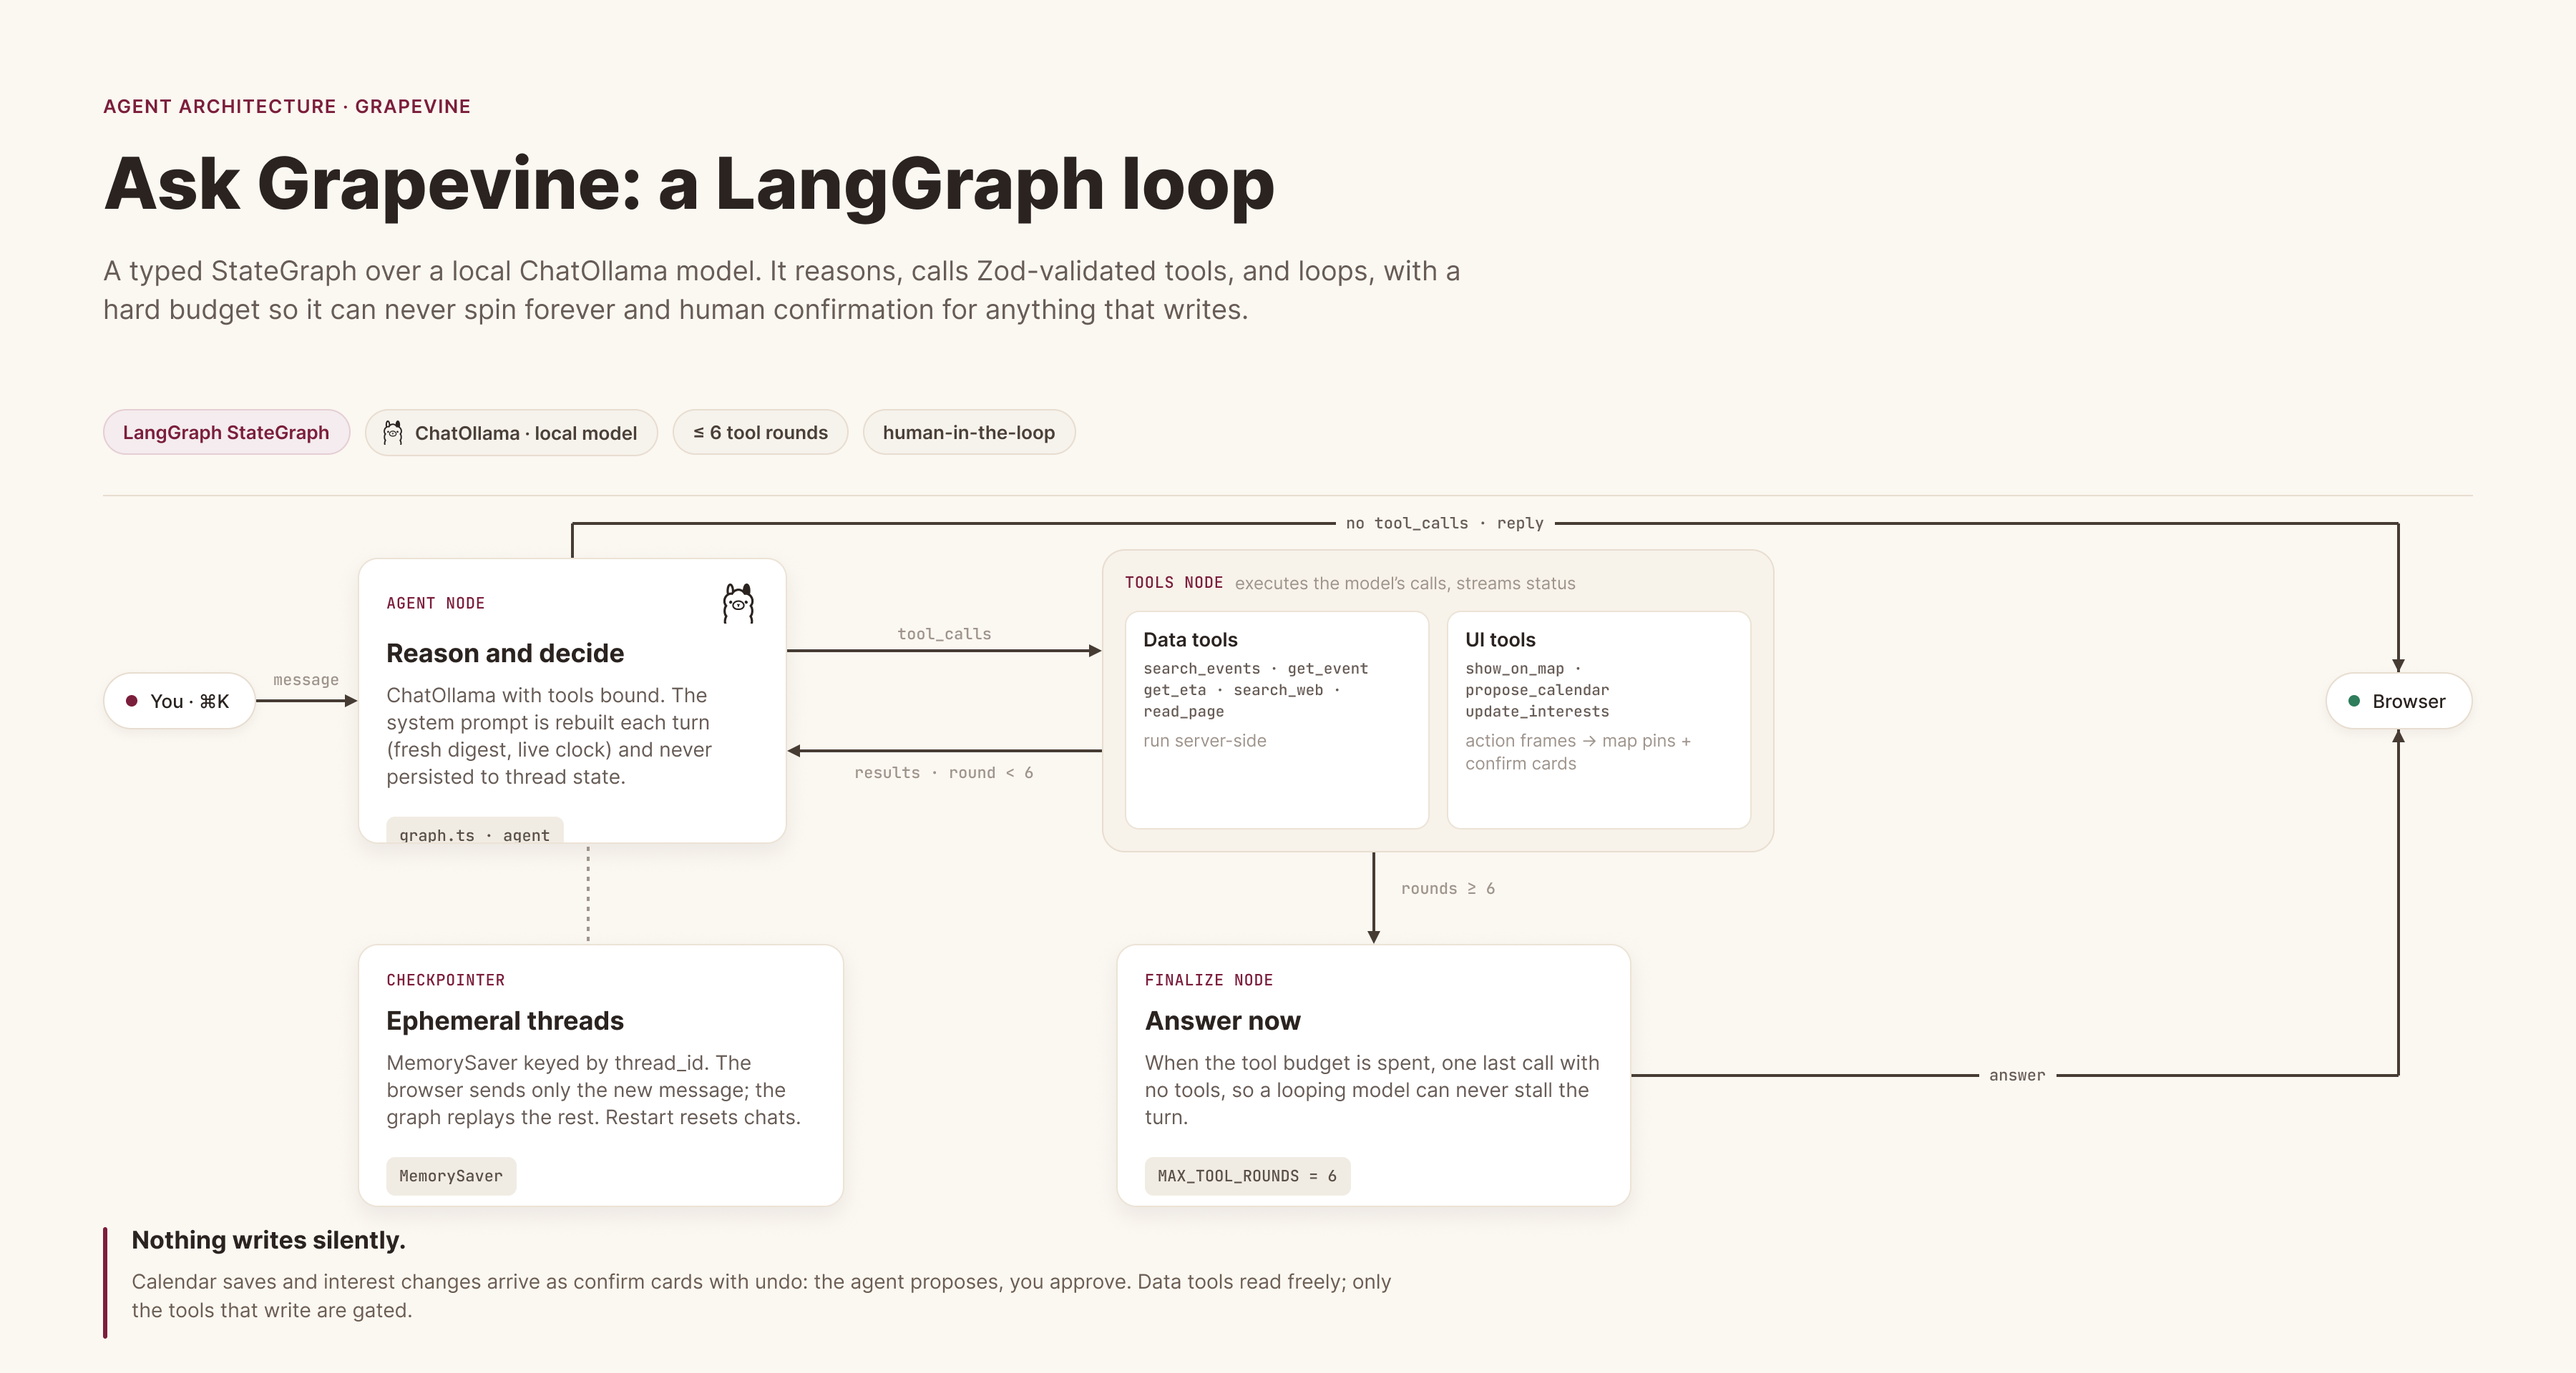
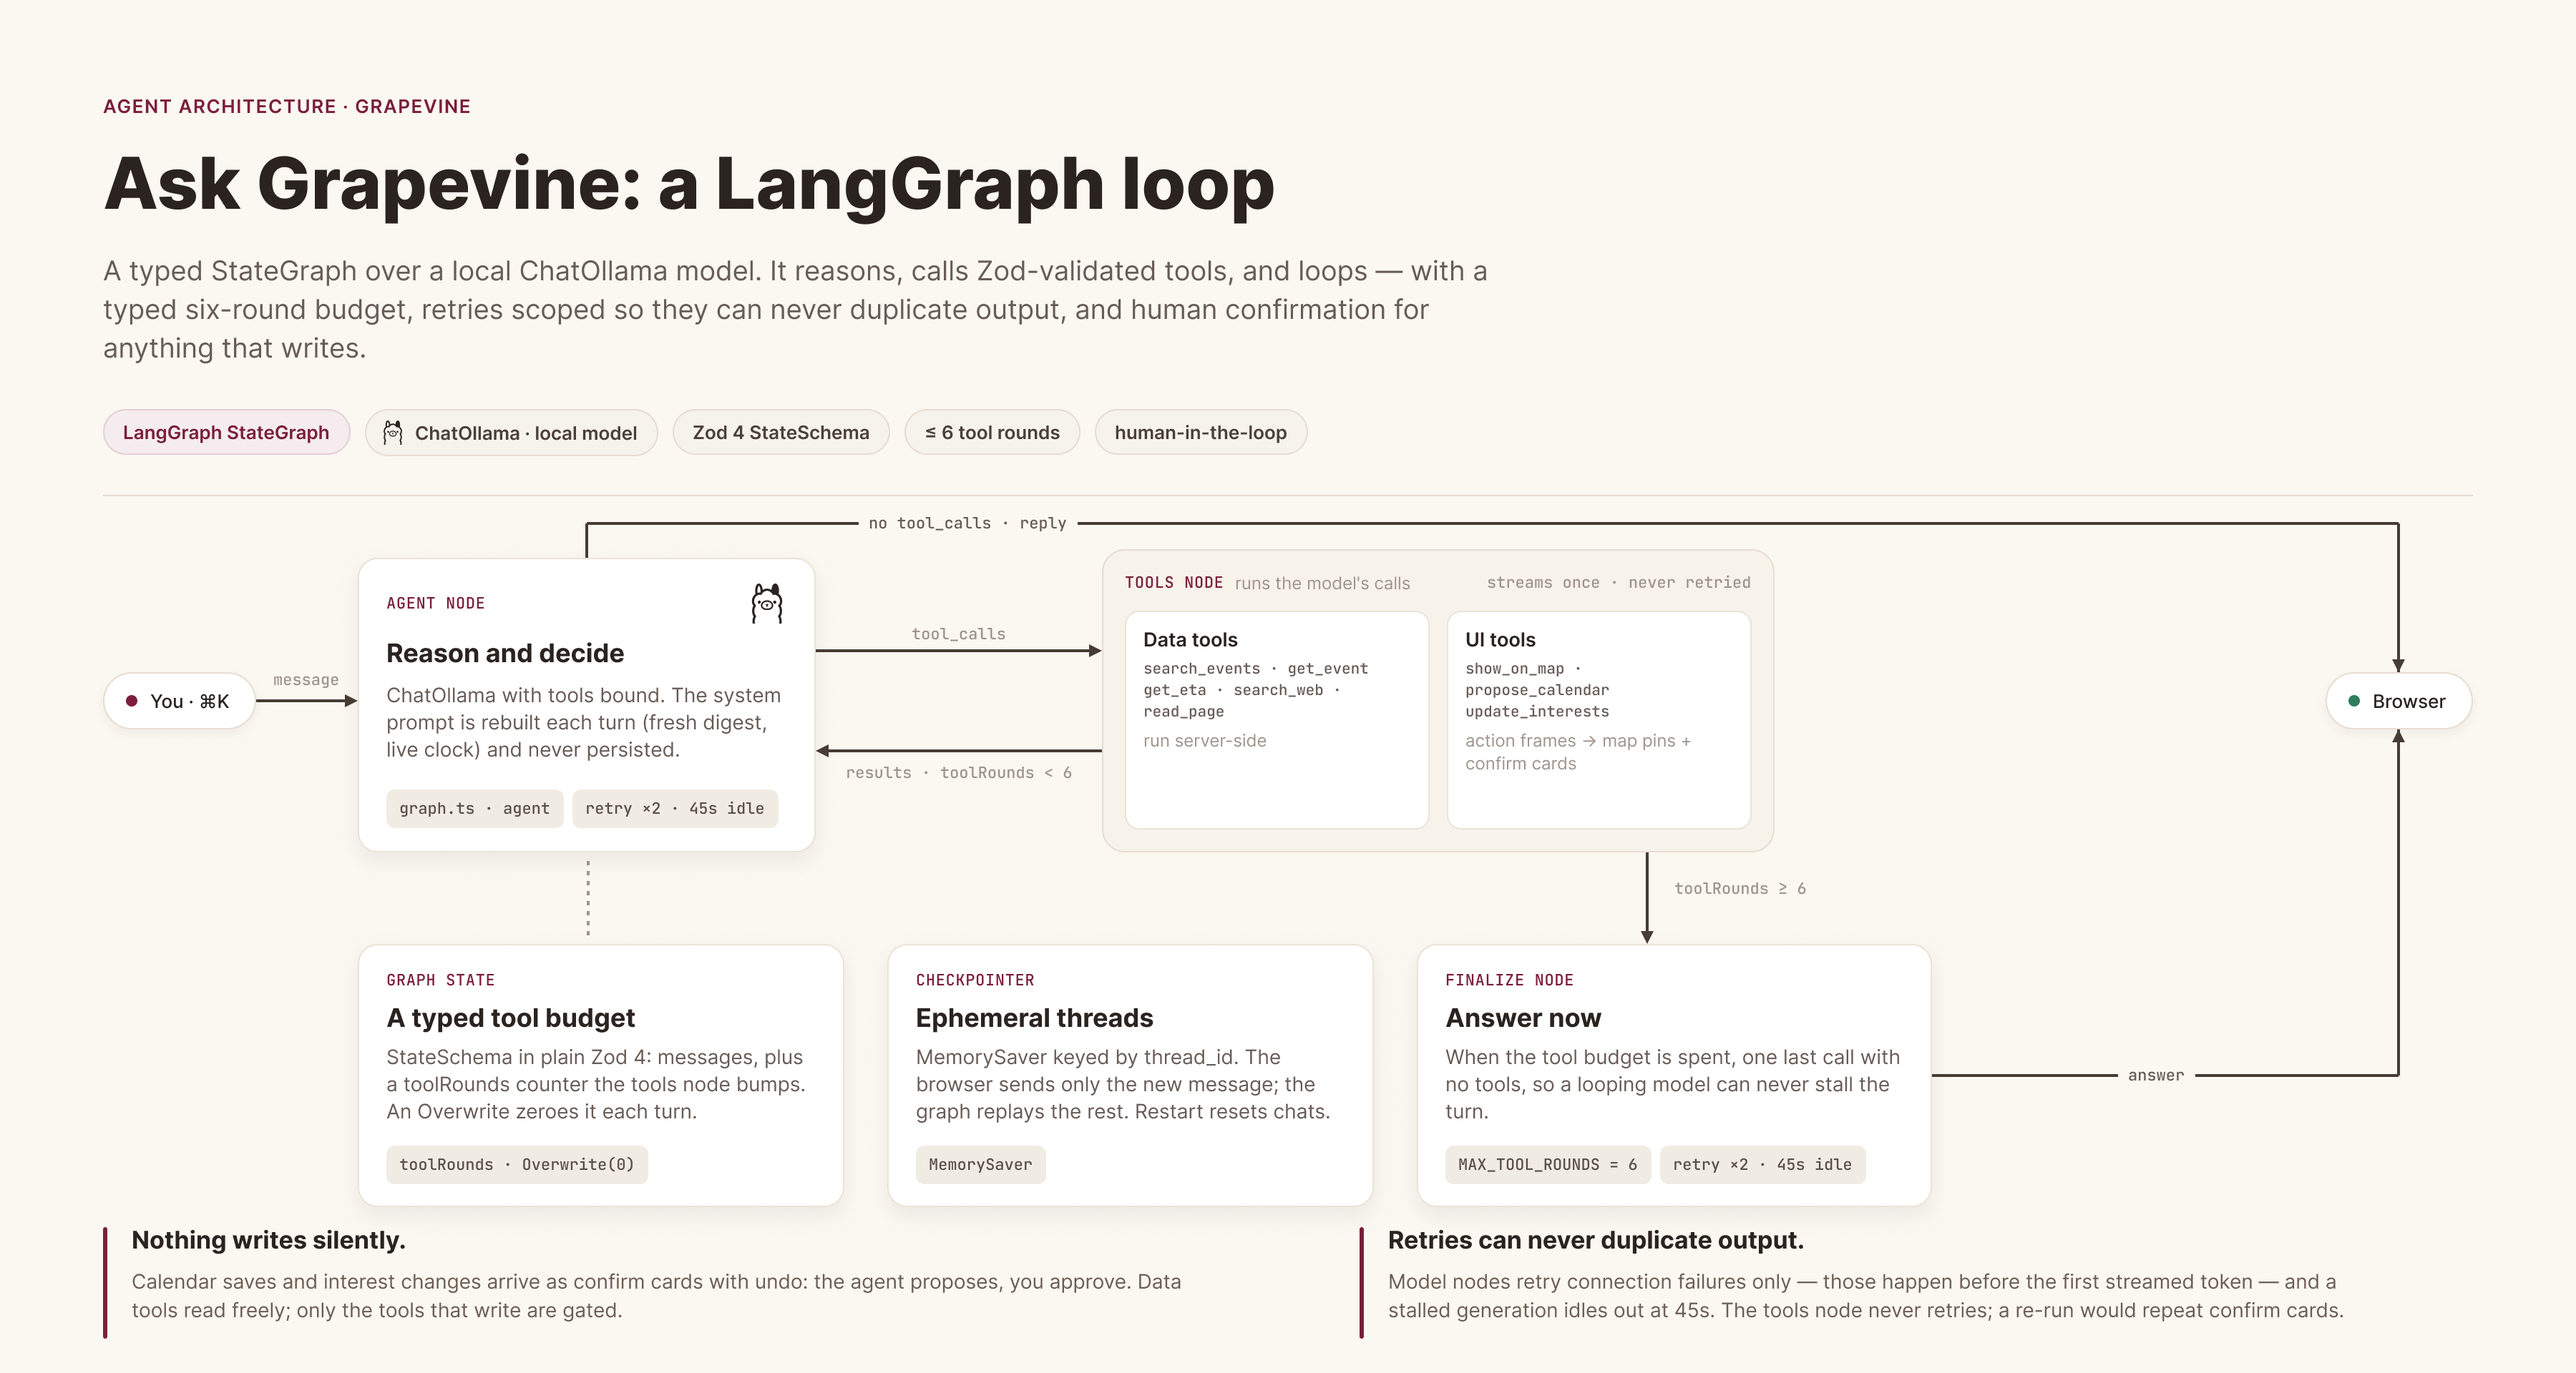
docs: redesign the ask-grapevine LangGraph diagram for the reworked graph
Reworked in the Figma source file and re-exported at 2x. The diagram now
shows the StateSchema-based graph: a GRAPH STATE card (typed toolRounds
budget channel, zeroed each turn with an Overwrite), retry/idle-timeout
policy chips on the agent and finalize nodes, a "streams once, never
retried" annotation on the tools node, edge labels renamed to the
toolRounds channel, and a second footer principle explaining why retries
can never duplicate streamed output. Also fixes the clipped file-reference
chip on the agent card and rebalances the bottom row into three aligned
cards. README alt text updated to match.

diff --git a/README.md b/README.md
@@ -87,7 +87,7 @@ The concierge is a LangGraph `StateGraph` running against `ChatOllama`, so
 swapping in a cloud model later is a one-line change.
 
 <p align="center">
-  <img src="docs/ask-grapevine.png" width="900" alt="The Ask Grapevine agent as a LangGraph state machine: a user message (Cmd-K) enters the agent node, a ChatOllama call with tools bound and a system prompt rebuilt each turn; if the model emits tool_calls they run in the tools node (data tools like search_events and read_page run server-side, UI tools like propose_calendar emit confirm cards) and results return to the agent while the round count is under six; if the model emits no tool_calls the reply streams to the browser; once six tool rounds are spent a finalize node answers with no tools so the loop can never spin forever; conversation memory is an ephemeral MemorySaver checkpointer keyed by thread id.">
+  <img src="docs/ask-grapevine.png" width="900" alt="The Ask Grapevine agent as a LangGraph state machine: a user message (Cmd-K) enters the agent node, a ChatOllama call with tools bound and a system prompt rebuilt each turn; if the model emits tool_calls they run in the tools node (data tools like search_events and read_page run server-side, UI tools like propose_calendar emit confirm cards) and results return to the agent while the typed toolRounds counter is under six; if the model emits no tool_calls the reply streams to the browser; once the budget is spent a finalize node answers with no tools so the loop can never spin forever. Graph state is a Zod 4 StateSchema (messages plus a toolRounds ReducedValue an Overwrite zeroes each turn) checkpointed by an ephemeral MemorySaver keyed by thread id; model nodes retry connection failures (safe before the first token) and idle-out stalled generations at 45s, while the tools node never retries so UI frames stream exactly once.">
 </p>
 
 - **Typed graph state** (LangGraph `StateSchema`, plain Zod 4): the transcript
